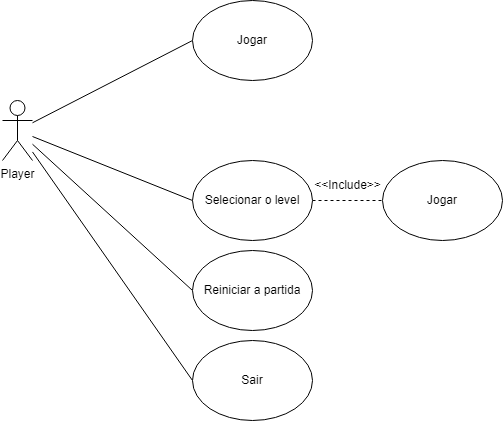
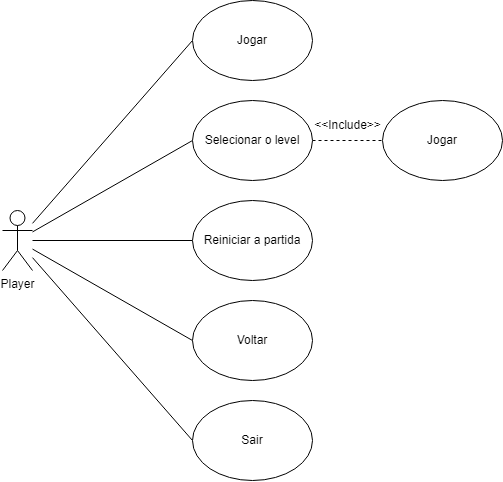
Diagrama de caso de uso
Feito o diagrama de casos de uso e colocado uma imagem

diff --git a/analise.md b/analise.md
@@ -10,9 +10,23 @@ Descrever de forma geral o domínio do problema.
 Possíveis requisitos funcionais e não-funcionais podem ser elencados aqui.
 
 ## Diagrama de Casos de Uso
+<center>
+<img src="img/diagramacasodeuso.png"
+     width="90%"
+     style="padding: 10px">
+</center>
 
-Apresentar o diagram de casos de uso, identificando as funcionalidades do sistema assim como os atores envolvidos
- 
+
+ Jogar -> O jogador vai para a tela de jogar e o programa inicia a contagem de movimentos.
+
+  Selecionar o level -> o jogador pode selecionar um dos **boards** dos níveis(1 a 10)
+
+ Reiniciar a partida-> As peças voltam para a posição inicial e a contagem zera. 
+
+ Voltar -> Volta para o menu inicial.
+
+ Sair -> Fecha o jogo.
+
 ## Diagrama de Domínio do problema
 
 Elaborar um diagrama conceitual do domínio do problema.
